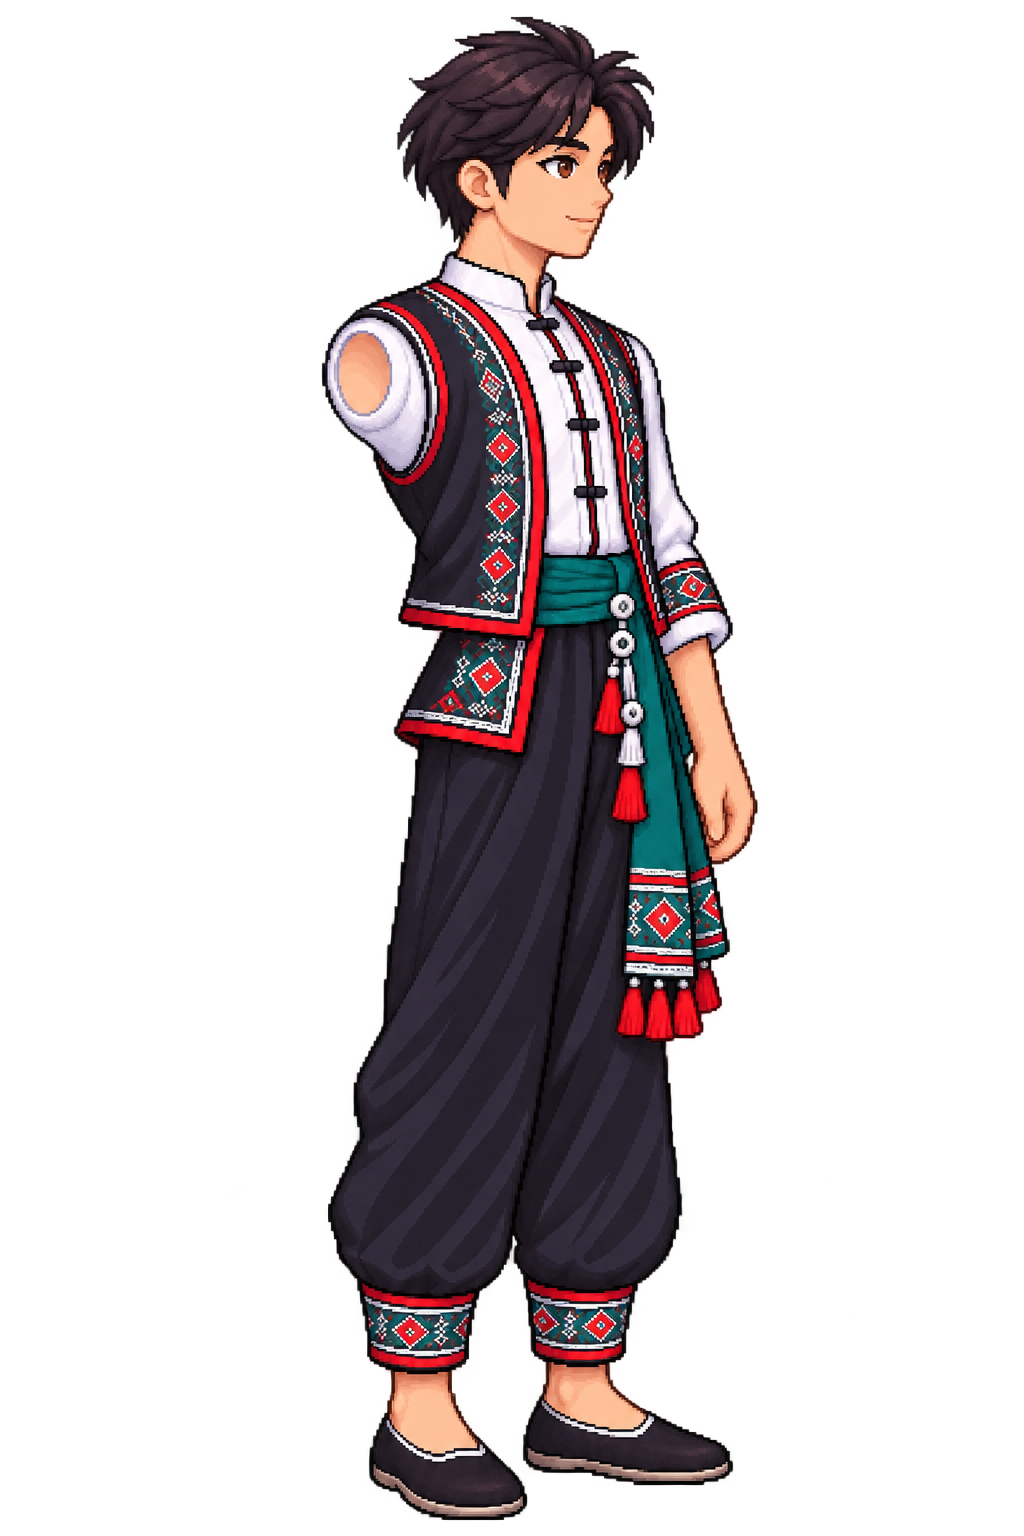
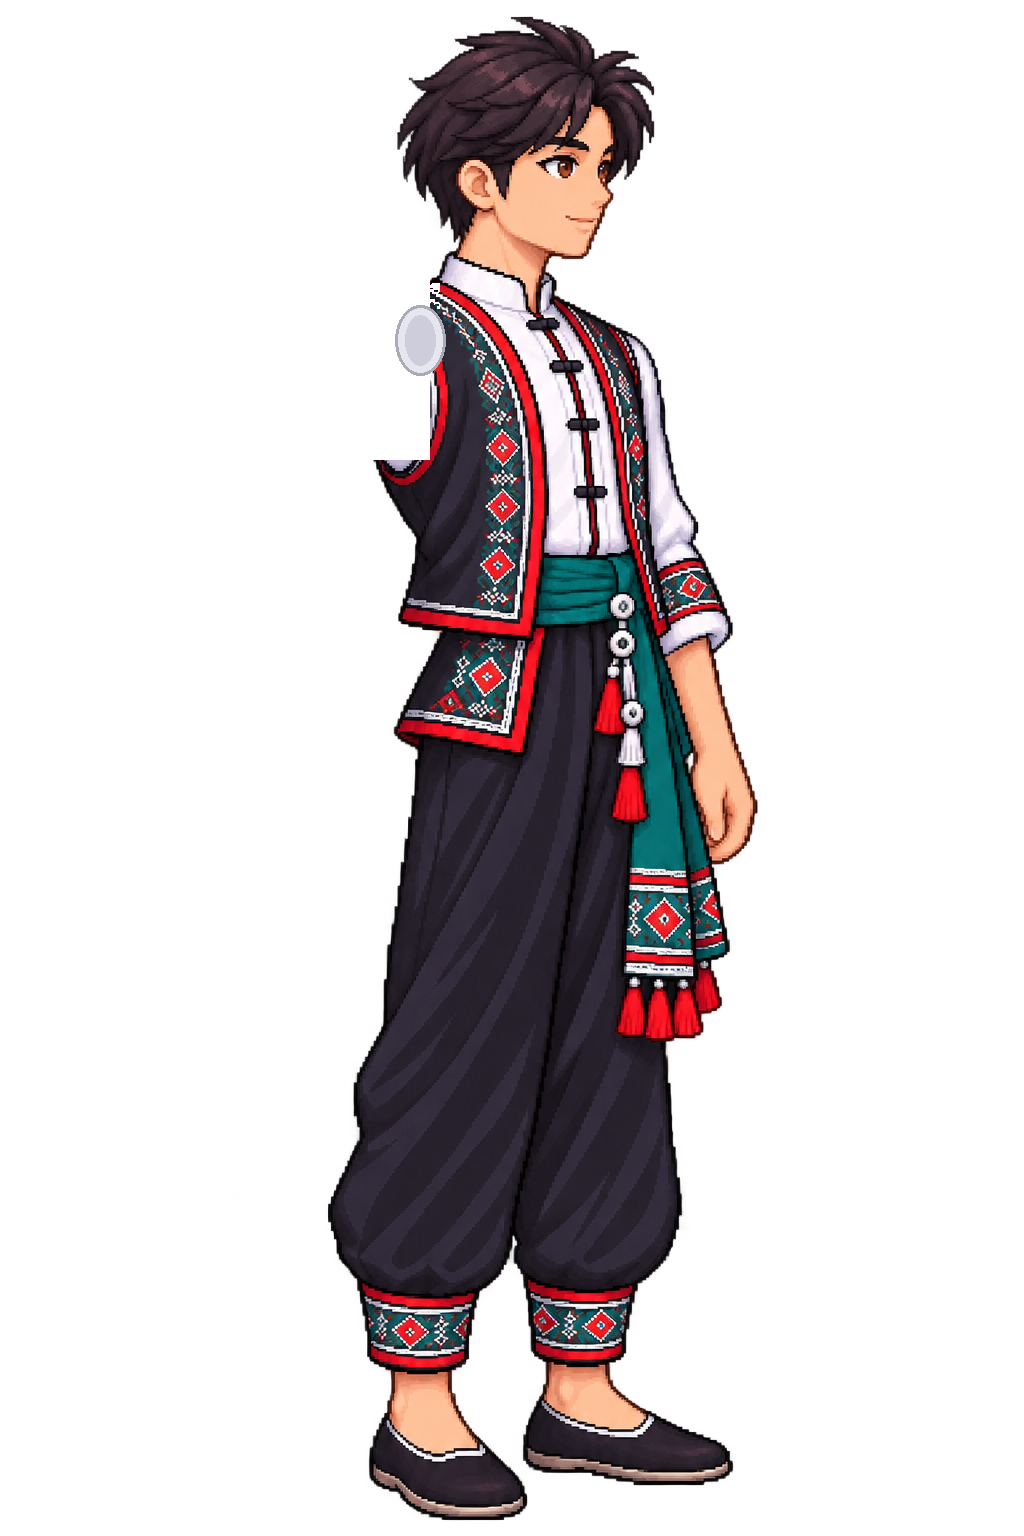
Fix male Tay character anatomy: remove stub, adjust sleeve/forearm proportions, calibrate natural 1:1 IK rig

Changed region(s): [[0.3125, 0.1875, 0.4375, 0.3125]]

diff --git a/test_male_debug.html b/test_male_debug.html
@@ -1,0 +1,188 @@
+<!DOCTYPE html>
+<html>
+<head>
+  <meta charset="UTF-8">
+  <title>Male Character Picture-by-Picture Debugger</title>
+  <style>
+    body { background: #181820; color: #fff; font-family: sans-serif; padding: 20px; }
+    h1 { font-size: 20px; margin-bottom: 10px; color: #4ade80; }
+    .grid { display: flex; flex-wrap: wrap; gap: 20px; }
+    .frame-box { background: #232330; border: 2px solid #3b3b4f; border-radius: 8px; padding: 10px; text-align: center; }
+    .frame-box h3 { font-size: 14px; margin-bottom: 8px; color: #38bdf8; }
+    canvas { background: #2a2a3c; border: 1px solid #555; border-radius: 4px; }
+  </style>
+</head>
+<body>
+  <h1>🔍 Phân Tích Hình Ảnh Từng Khung Hình (Picture-by-Picture) - Chàng Trai Tày</h1>
+  <div class="grid" id="grid"></div>
+
+  <script src="character-config.js"></script>
+  <script>
+    async function init() {
+      const cfg = CHARACTER_CONFIG.getSkinConfig('nam_tay_khoe_khoan');
+      const grid = document.getElementById('grid');
+
+      // Load sprites
+      const sprites = {};
+      const entries = CHARACTER_CONFIG.getCharacterAssetEntries('nam_tay_khoe_khoan');
+      for (const e of entries) {
+        const img = new Image();
+        img.src = e.src;
+        await new Promise(r => img.onload = r);
+        sprites[e.key] = img;
+      }
+
+      // Also load ball & pole
+      const ballImg = new Image();
+      ballImg.src = 'assets/character/attempt/clean/quacon_ball.png';
+      await new Promise(r => ballImg.onload = r);
+
+      const poses = [
+        { name: '1. Đứng Chờ (Idle Stance)', handOffset: { x: 30, y: 120 } },
+        { name: '2. Vung Tay Ra Sau (Windup Back)', handOffset: { x: -80, y: 30 } },
+        { name: '3. Vung Tay Xuống Dưới (Swing Down)', handOffset: { x: 40, y: 150 } },
+        { name: '4. Vung Tay Lên Cao (Swing High)', handOffset: { x: 90, y: -70 } },
+        { name: '5. Buông Còn Phóng Đi (Release Throw)', handOffset: { x: 130, y: -40 } }
+      ];
+
+      poses.forEach(pose => {
+        const box = document.createElement('div');
+        box.className = 'frame-box';
+        box.innerHTML = `<h3>${pose.name}</h3>`;
+
+        const cvs = document.createElement('canvas');
+        cvs.width = 400;
+        cvs.height = 550;
+        const ctx = cvs.getContext('2d');
+        box.appendChild(cvs);
+        grid.appendChild(box);
+
+        drawPose(ctx, cvs.width, cvs.height, cfg, sprites, ballImg, pose.handOffset);
+      });
+    }
+
+    function solveIK(l1, l2, dx, dy) {
+      const d = Math.max(Math.abs(l1 - l2) + 0.1, Math.min(l1 + l2 - 0.1, Math.hypot(dx, dy)));
+      const cosA = (l1 * l1 + d * d - l2 * l2) / (2 * l1 * d);
+      const alpha = Math.acos(Math.max(-1, Math.min(1, cosA)));
+      const cosB = (l1 * l1 + l2 * l2 - d * d) / (2 * l1 * l2);
+      const beta = Math.acos(Math.max(-1, Math.min(1, cosB)));
+      const theta = Math.atan2(dy, dx);
+      const th1 = theta + alpha;
+      const th2 = th1 - (Math.PI - beta);
+      return { th1, th2 };
+    }
+
+    function drawPose(ctx, cw, ch, cfg, sprites, ballImg, handOffset) {
+      ctx.clearRect(0, 0, cw, ch);
+
+      const groundY = ch - 40;
+      const groundX = cw / 2 - 20;
+
+      // Ground Line
+      ctx.strokeStyle = '#475569';
+      ctx.lineWidth = 2;
+      ctx.beginPath();
+      ctx.moveTo(0, groundY); ctx.lineTo(cw, groundY);
+      ctx.stroke();
+
+      const sBody = 0.30;
+      const footAnchor = cfg.anchors.footAnchor;
+      const shoulderJoint = cfg.anchors.shoulderJoint;
+
+      const bodyDrawX = groundX - footAnchor.x * sBody;
+      const bodyDrawY = groundY - footAnchor.y * sBody;
+
+      // 1. Draw Body
+      ctx.drawImage(sprites.body, bodyDrawX, bodyDrawY, sprites.body.width * sBody, sprites.body.height * sBody);
+
+      // Shoulder in world
+      const shX = bodyDrawX + shoulderJoint.x * sBody;
+      const shY = bodyDrawY + shoulderJoint.y * sBody;
+
+      // Kinematics
+      const sUpper = (cfg.kinematics.scaleUpper || 1.0) * sBody;
+      const sFore = (cfg.kinematics.scaleFore || 1.0) * sBody;
+      const sHand = (cfg.kinematics.scaleHand || 1.0) * sBody;
+
+      const uP = cfg.kinematics.upperArm.shoulderPivot;
+      const uE = cfg.kinematics.upperArm.elbowJoint;
+      const uVec = { x: (uE.x - uP.x) * sUpper, y: (uE.y - uP.y) * sUpper };
+      const L1 = Math.hypot(uVec.x, uVec.y);
+      const uBaseAng = Math.atan2(uVec.y, uVec.x);
+
+      const fP = cfg.kinematics.forearm.elbowPivot;
+      const fW = cfg.kinematics.forearm.wristJoint;
+      const fVec = { x: (fW.x - fP.x) * sFore, y: (fW.y - fP.y) * sFore };
+      const L2 = Math.hypot(fVec.x, fVec.y);
+      const fBaseAng = Math.atan2(fVec.y, fVec.x);
+
+      const hP = cfg.kinematics.hand.wristPivot;
+      const hG = cfg.kinematics.hand.gripTunnel;
+      const hVec = { x: (hG.x - hP.x) * sHand, y: (hG.y - hP.y) * sHand };
+      const hDist = Math.hypot(hVec.x, hVec.y);
+      const hBaseAng = Math.atan2(hVec.y, hVec.x);
+
+      const targetX = shX + handOffset.x;
+      const targetY = shY + handOffset.y;
+
+      const ik = solveIK(L1, L2, targetX - shX, targetY - shY);
+      const th1 = ik.th1;
+      const th2 = ik.th2;
+
+      // Draw Upper Arm
+      ctx.save();
+      ctx.translate(shX, shY);
+      ctx.rotate(th1 - uBaseAng);
+      ctx.drawImage(sprites.upper_arm, -uP.x * sUpper, -uP.y * sUpper, sprites.upper_arm.width * sUpper, sprites.upper_arm.height * sUpper);
+      ctx.restore();
+
+      // Elbow in world
+      const elbX = shX + L1 * Math.cos(th1);
+      const elbY = shY + L1 * Math.sin(th1);
+
+      // Draw Forearm
+      ctx.save();
+      ctx.translate(elbX, elbY);
+      ctx.rotate(th2 - fBaseAng);
+      ctx.drawImage(sprites.forearm, -fP.x * sFore, -fP.y * sFore, sprites.forearm.width * sFore, sprites.forearm.height * sFore);
+      ctx.restore();
+
+      // Wrist in world
+      const wristX = elbX + L2 * Math.cos(th2);
+      const wristY = elbY + L2 * Math.sin(th2);
+
+      // Draw Hand
+      ctx.save();
+      ctx.translate(wristX, wristY);
+      ctx.rotate(th2 - hBaseAng);
+      ctx.drawImage(sprites.hand, -hP.x * sHand, -hP.y * sHand, sprites.hand.width * sHand, sprites.hand.height * sHand);
+      ctx.restore();
+
+      // Draw Joint points (for inspection)
+      ctx.fillStyle = '#ef4444';
+      ctx.beginPath(); ctx.arc(shX, shY, 4, 0, Math.PI * 2); ctx.fill();
+      ctx.fillStyle = '#3b82f6';
+      ctx.beginPath(); ctx.arc(elbX, elbY, 4, 0, Math.PI * 2); ctx.fill();
+      ctx.fillStyle = '#10b981';
+      ctx.beginPath(); ctx.arc(wristX, wristY, 4, 0, Math.PI * 2); ctx.fill();
+
+      // Draw Target
+      ctx.fillStyle = '#f59e0b';
+      ctx.beginPath(); ctx.arc(targetX, targetY, 5, 0, Math.PI * 2); ctx.fill();
+
+      // Cord to ball
+      ctx.strokeStyle = '#e11d48';
+      ctx.lineWidth = 2;
+      ctx.beginPath();
+      ctx.moveTo(wristX, wristY);
+      ctx.lineTo(targetX, targetY);
+      ctx.stroke();
+
+      ctx.drawImage(ballImg, targetX - 15, targetY - 15, 30, 30);
+    }
+
+    window.onload = init;
+  </script>
+</body>
+</html>

diff --git a/character-config.js b/character-config.js
@@ -108,23 +108,23 @@ const CHARACTER_CONFIG = (() => {
       },
       anchors: {
         footAnchor: { x: 491, y: 1515 },
-        shoulderJoint: { x: 350, y: 320 }
+        shoulderJoint: { x: 420, y: 340 }
       },
       kinematics: {
         scaleUpper: 1.0,
         scaleFore: 1.0,
         scaleHand: 1.0,
         upperArm: {
-          shoulderPivot: { x: 120, y: 40 },
-          elbowJoint: { x: 120, y: 340 }
+          shoulderPivot: { x: 130, y: 40 },
+          elbowJoint: { x: 130, y: 270 }
         },
         forearm: {
-          elbowPivot: { x: 50, y: 20 },
-          wristJoint: { x: 50, y: 220 }
+          elbowPivot: { x: 45, y: 15 },
+          wristJoint: { x: 45, y: 185 }
         },
         hand: {
-          wristPivot: { x: 30, y: 90 },
-          gripTunnel: { x: 80, y: 60 }
+          wristPivot: { x: 25, y: 55 },
+          gripTunnel: { x: 65, y: 60 }
         }
       },
       animation: {
